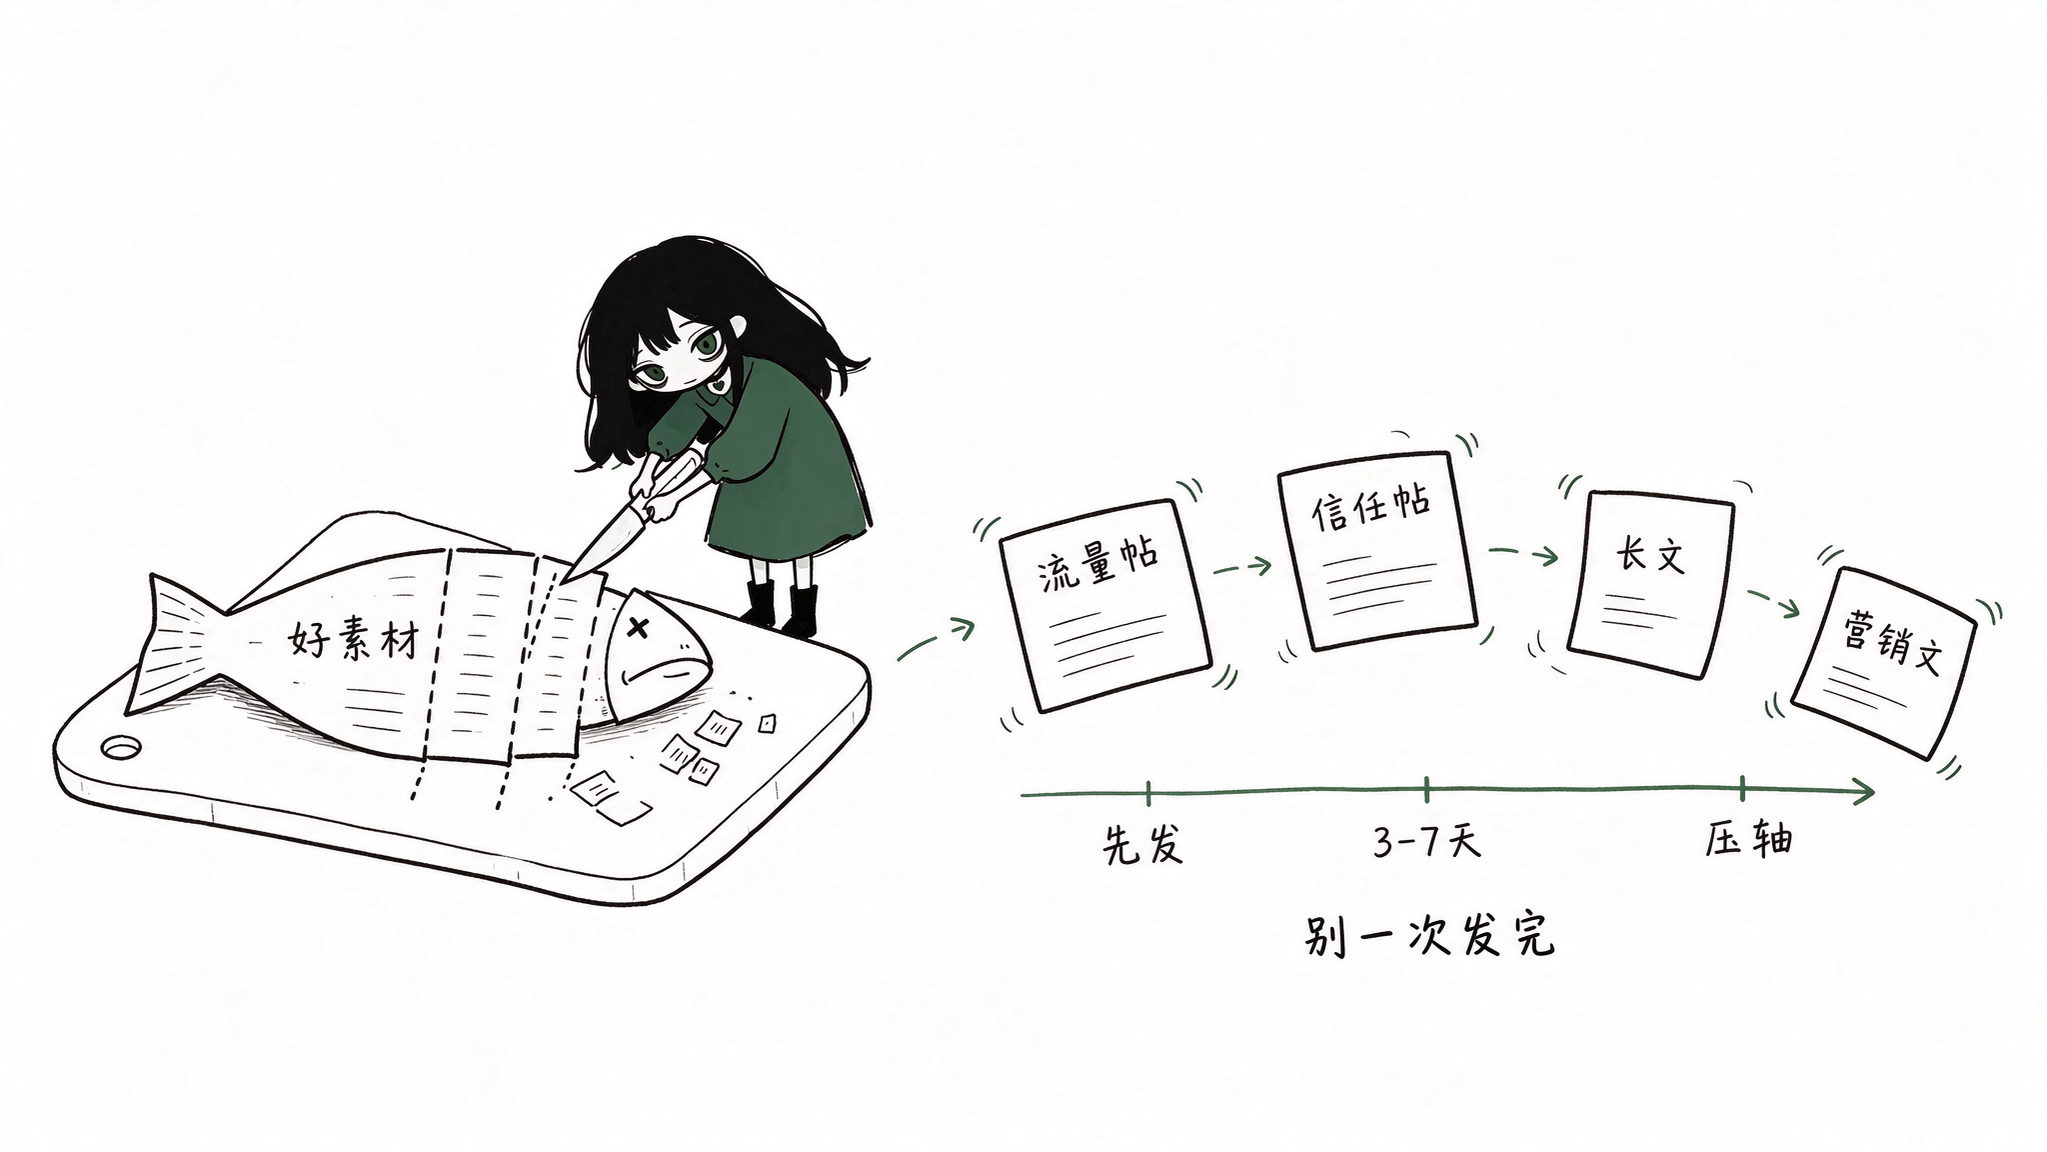
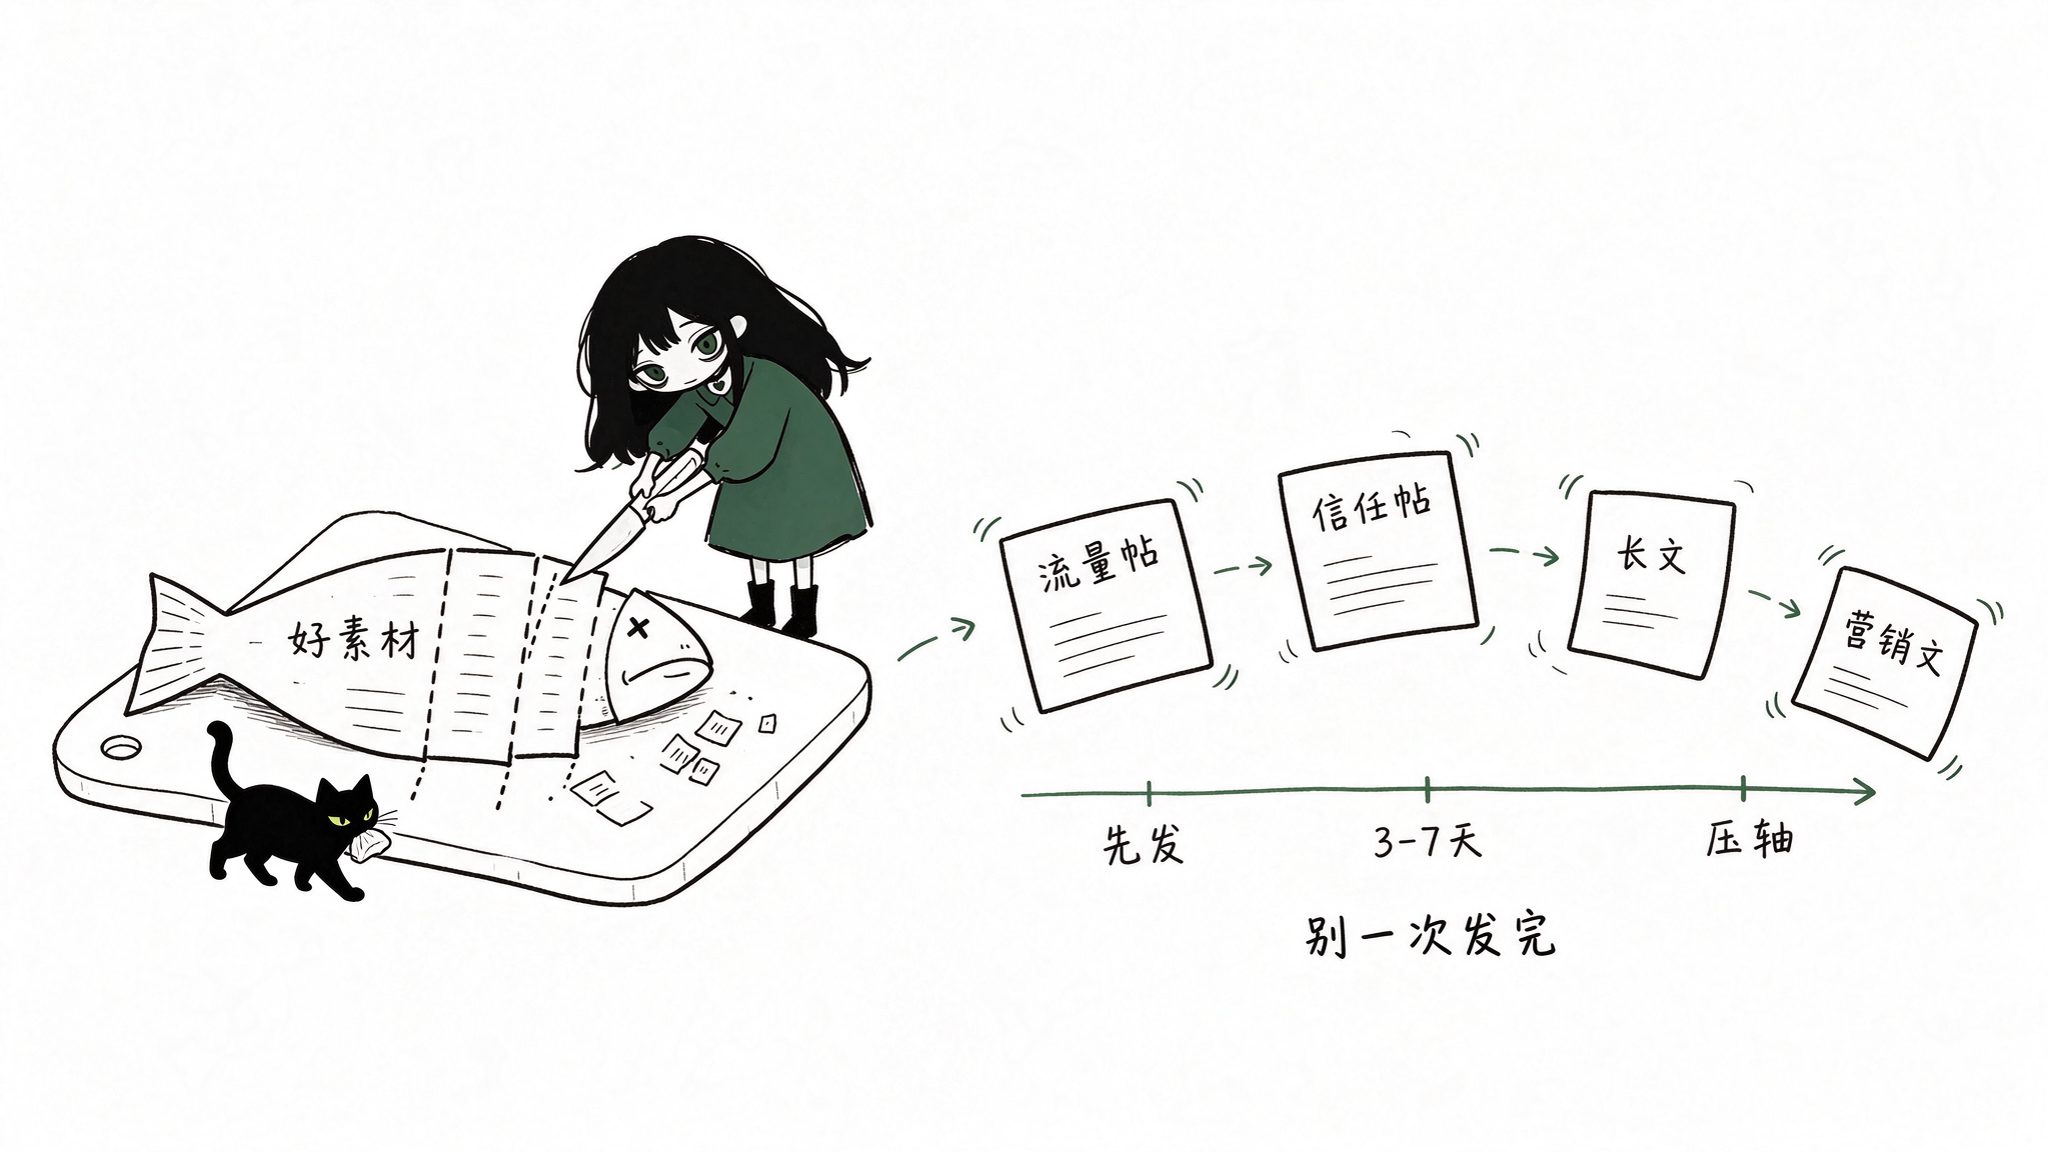
Add mia as a secondary character: define when she appears, rerender 5 samples with her

Changed region(s): [[0.0923, 0.625, 0.1847, 0.7812]]

diff --git a/tuotuo-illustrations/references/tuotuo-ip.md b/tuotuo-illustrations/references/tuotuo-ip.md
@@ -21,13 +21,39 @@
 - 表情只有一种：平静、空、认真。最多一条极短弧线当嘴，不做表情变化。
 - 比例简单：头略大、四肢细、身形矮小；线条轻微抖动，不追求解剖准确。
 
-## 黑猫 mia（可选配角）
+## 黑猫 mia（配角，按需出现）
+
+mia 是托托的固定搭档，但**不是第二主角**，也不默认每张都出现。她只干"第二个动作"：处理那点不重要的、多出来的小事。
+
+### 外形
 
 - 纯黑实心剪影，黄绿眼，尾巴可弯成钩或问号。
-- 没有毛发细节、没有花纹、没有项圈。
-- 只做第二动作：叼、抓、按、卧、跳、压线球、当配重。
-- 不承担核心隐喻，不做第二主角，不抢画面重心。
-- 一张图里最多一只 mia；同一个动作不要托托和 mia 各做一遍。
+- 没有毛发细节、没有花纹、没有项圈、没有铃铛。
+- 大约托托身高的三分之一，蹲坐时更矮。
+- 不做拟人化：不站起来、不穿衣服、不拿工具、不挥手。
+
+### 什么时候画她（满足其中一条才画）
+
+1. 画面里有一件"需要被按住 / 叼走 / 拖回来 / 压住"的小东西，而托托的双手已经占着。例如要被风吹走的纸、滚动的线团、翘起来的盖板。
+2. 有一个"已经先到那边了"的状态需要暗示。例如她先坐在对岸、先守在门口、先在终点等着。
+3. 画面需要一点"活的、不解释的小动静"来破掉死板，而她出现不会增加信息量。例如蹲在机器顶上、趴在一摞箱子上。
+
+### 什么时候不要画她
+
+- 画面已经满，或者核心动作还没有归属。
+- 结构光靠箭头就能读懂，多一只猫只是装饰。
+- 只是想"每张都有一只猫"——那就别画。硬塞会让画面掉到贴纸水平。
+
+### 动作库
+
+叼、按、压、卧、守、推、拖、嗅、蹲坐、钻、探头。
+
+### 禁止
+
+- 不承担核心隐喻，核心动作永远归托托。
+- 不抢焦点、不站在画面正中、不画特写。
+- 一张图最多一只 mia，不加猫窝、鱼、食盆。
+- 同一个动作不要托托和 mia 各做一遍。
 
 ## 性格
 

diff --git a/tuotuo-illustrations/references/prompt-template.md b/tuotuo-illustrations/references/prompt-template.md
@@ -13,8 +13,8 @@ Pure white background. Minimalist black hand-drawn line art with flat ink fills.
 Recurring IP character required:
 托托 (Tuotuo), a small pale-skinned girl drawn in minimal hand-drawn line art: thick solid-black long hair with loose messy ends, a dark forest-green loose A-line dress with long sleeves, black short boots, a thin black choker with a tiny heart pendant, large flat dark-green eyes with no highlight and no eyelashes, a blank calm serious deadpan face with almost no expression, simple slightly uneven hand-drawn proportions (head a little big, thin limbs). Flat two-color ink only, no shading. 托托 must perform the core conceptual action with her hands and body, not decorate the scene, and never turn into an object. Never draw her as a cute anime girl: no blush, no glossy or sparkly eyes, no eyelashes, no sweet smile, no cute pose, no chibi, no outfit change.
 
-Optional companion:
-mia, a small solid-black cat with pale green-yellow eyes, simple silhouette, no fur detail. At most one mia, only as a secondary action (carrying, pawing, pressing, sitting on). mia never carries the core metaphor. Leave mia out if the image does not need her.
+Secondary character (draw her only if she has a job):
+mia, a small solid-black cat with pale green-yellow eyes, simple silhouette, no fur detail, no collar, no markings, never anthropomorphised. Include mia only when she carries a secondary action that supports the structure: holding down a paper that wants to fly away, pressing a lid, dragging back a thread, carrying one small piece away, waiting on the far side, or adding one tiny extra weight. At most one mia. mia never carries the core metaphor and never takes focus. If nothing needs her, leave her out.
 
 Theme:
 {正文配图主题}

diff --git a/tuotuo-illustrations/references/composition-patterns.md b/tuotuo-illustrations/references/composition-patterns.md
@@ -83,8 +83,11 @@
 
 ## mia 的使用规则
 
-- mia 只在需要第二动作时出现：叼走一小块、按着要飞走的纸、卧在机器上压住它、把线团推回来。
-- mia 不解释概念，只增加画面活性，所以画面不依赖它也能读懂。
+mia 是配角，按需出现，不默认每张都有。
+
+- 只在有"第二个动作"可分时才画：按住要飞的纸、压住盖子、拖回线团、叼走一小块、在对岸等着、给结构加一点多余的重量。
+- mia 不解释概念，只增加画面活性，所以画面不依赖她也能读懂。
+- 出现条件、动作库和禁止项见 `tuotuo-ip.md`。四条硬线：最多一只、不拟人化、不承担核心隐喻、不站画面正中。
 - 不加第二只猫、不加猫窝、不加鱼。
 
 ## 反复刻规则

diff --git a/NOTICE.md b/NOTICE.md
@@ -13,7 +13,7 @@ Original project: <https://github.com/helloianneo/ian-xiaohei-illustrations>
 
 ## What has been changed in this derivative
 
-- The recurring visual IP has been replaced: 小黑 has been removed and replaced with the author's own character 托托 (Tuotuo) and the optional companion cat mia.
+- The recurring visual IP has been replaced: 小黑 has been removed and replaced with the author's own character 托托 (Tuotuo) and her recurring companion cat mia.
 - The annotation color system has been narrowed from red/orange/blue to black plus dark green only.
 - Corresponding rewrites in `SKILL.md`, `agents/openai.yaml`, all reference files, `README.md` and `examples/prompts.md`.
 
